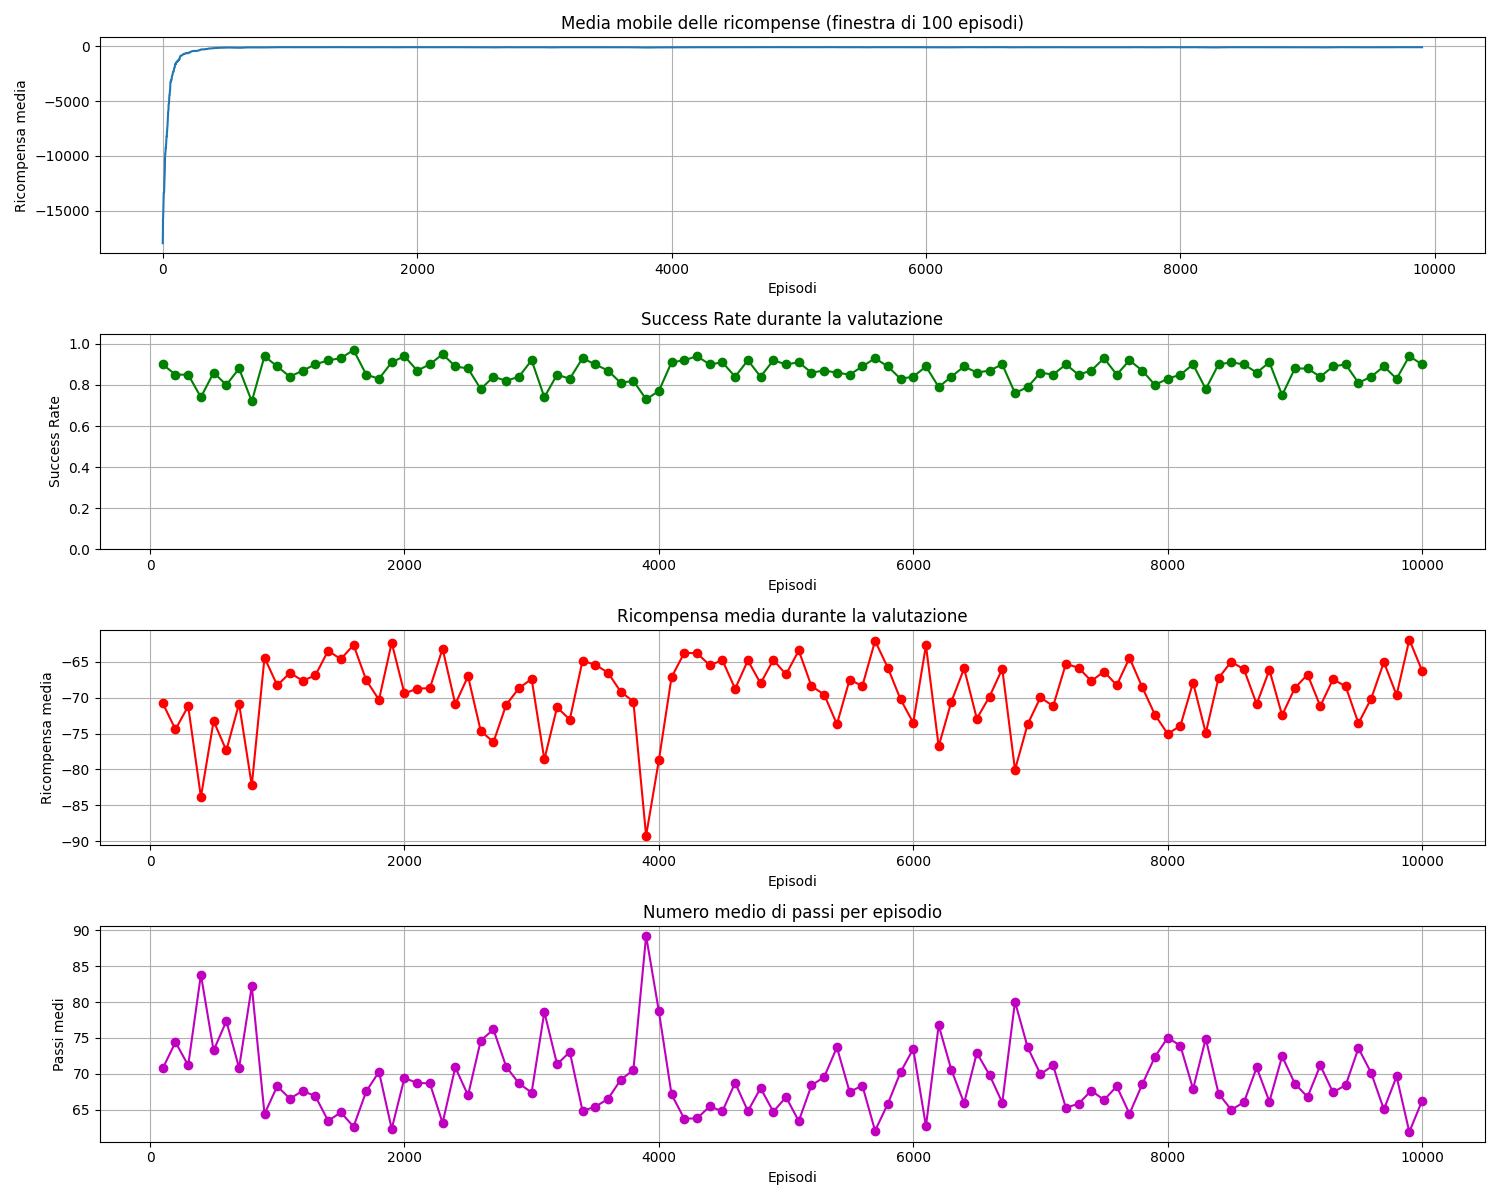
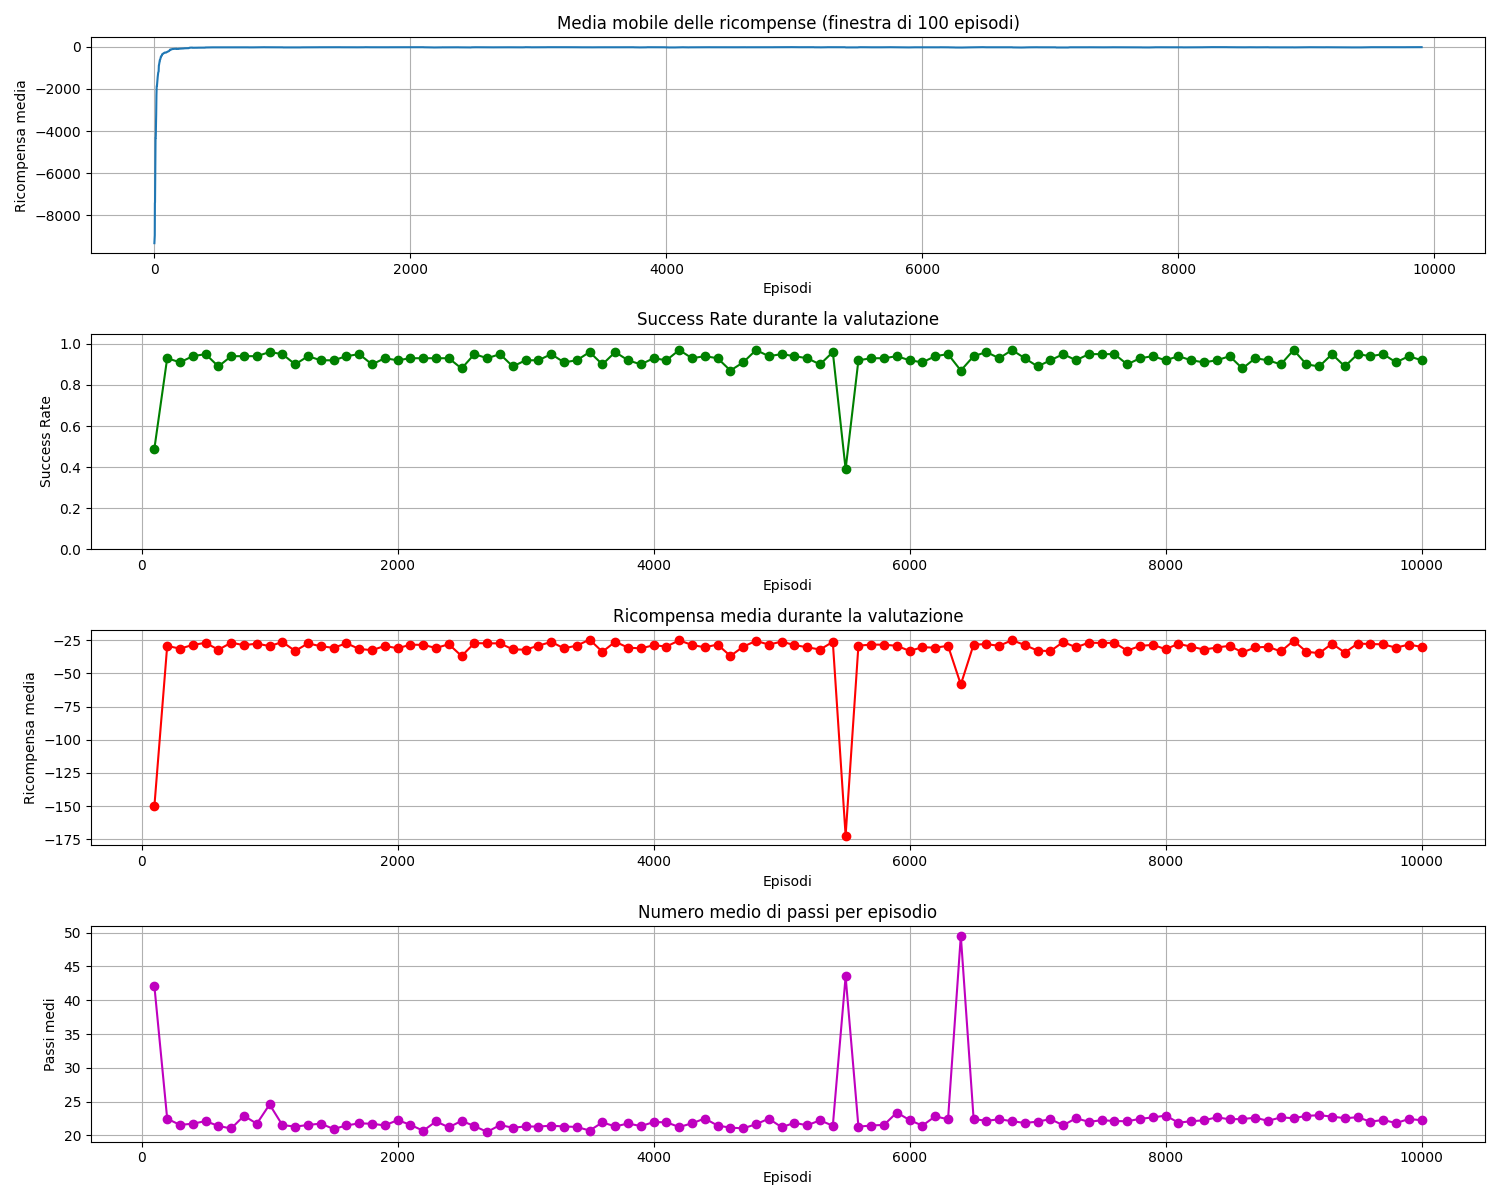
minor changes

diff --git a/DQN slippery v2/dqn-multi-ann.py b/DQN slippery v2/dqn-multi-ann.py
@@ -90,7 +90,12 @@ class CliffWalkingAgent:
         # Memorizza l'esperienza nel buffer
         self.memory.append((state, action, reward, next_state, done))
     
+    
     def act(self, state, training=True):
+        """
+        Se training è True, esegui un'azione in modo epsilon-greedy.
+        Altrimenti, esegui l'azione con il valore Q massimo stimato dalla rete.
+        """
         # Epsilon-greedy per l'esplorazione
         if training and random.random() < self.epsilon:
             return random.randrange(self.action_size)
@@ -245,10 +250,11 @@ def evaluate_agent(env, agent, episodes=100, render=False):
         state, _ = env.reset()
         total_reward = 0
         done = False
+        truncated = False
         step = 0
         successes = 0
         
-        while not done and step < 200:
+        while not (done or truncated) and step < 200:
             action = agent.act(state, training=False)
             next_state, reward, done, truncated, _ = env.step(action)
             done = done or truncated
@@ -261,7 +267,7 @@ def evaluate_agent(env, agent, episodes=100, render=False):
                 env.render()
                 time.sleep(0.1)
         
-        if total_reward > -100:
+        if not truncated or (total_reward > -100):
             successes += 1
         
         total_rewards.append(total_reward)

diff --git a/Tabular.py b/Tabular.py
@@ -4,9 +4,10 @@ import matplotlib.pyplot as plt
 import seaborn as sns
 import time
 from tqdm import tqdm
+from SlipperyCliffWalkingEnv import SlipperyCliffWalkingEnv
 
 # Creazione dell'ambiente CliffWalking nella versione slippery
-env = gym.make('CliffWalking-v0', render_mode=None, is_slippery=True)
+env = SlipperyCliffWalkingEnv(slip_chance=0.2)
 
 # Parametri per il Q-learning
 alpha = 0.1       # Tasso di apprendimento
@@ -32,7 +33,7 @@ avg_steps = []
 # Funzione di valutazione dell'agente addestrato
 def evaluate_agent(q_table, num_eval_episodes=100):
     # Ambiente di valutazione (senza rendering)
-    eval_env = gym.make('CliffWalking-v0', render_mode=None, is_slippery=True)
+    eval_env = SlipperyCliffWalkingEnv(slip_chance=0.2)
     
     success_count = 0
     total_rewards = 0
@@ -365,7 +366,7 @@ def test_trained_agent(q_table, num_test_episodes=1000):
     print("="*50)
     
     # Ambiente di test
-    test_env = gym.make('CliffWalking-v0', render_mode=None, is_slippery=True)
+    test_env = SlipperyCliffWalkingEnv(slip_chance=0.2)
     
     # Metriche
     rewards = []

diff --git a/SlipperyCliffWalkingEnv.py b/SlipperyCliffWalkingEnv.py
@@ -1,0 +1,18 @@
+from gymnasium.envs.toy_text.cliffwalking import CliffWalkingEnv
+import random
+
+
+class SlipperyCliffWalkingEnv(CliffWalkingEnv):
+    def __init__(self, slip_chance=0.2):
+        super(SlipperyCliffWalkingEnv, self).__init__()
+        self.slip_chance = slip_chance
+        
+    def step(self, action):
+        # Con una certa probabilità, esegui un'azione casuale invece di quella scelta
+        if random.random() < self.slip_chance:
+            action = random.randint(0, 3)
+        
+        return super().step(action)
+    
+
+make = lambda **kwargs: SlipperyCliffWalkingEnv(**kwargs)
